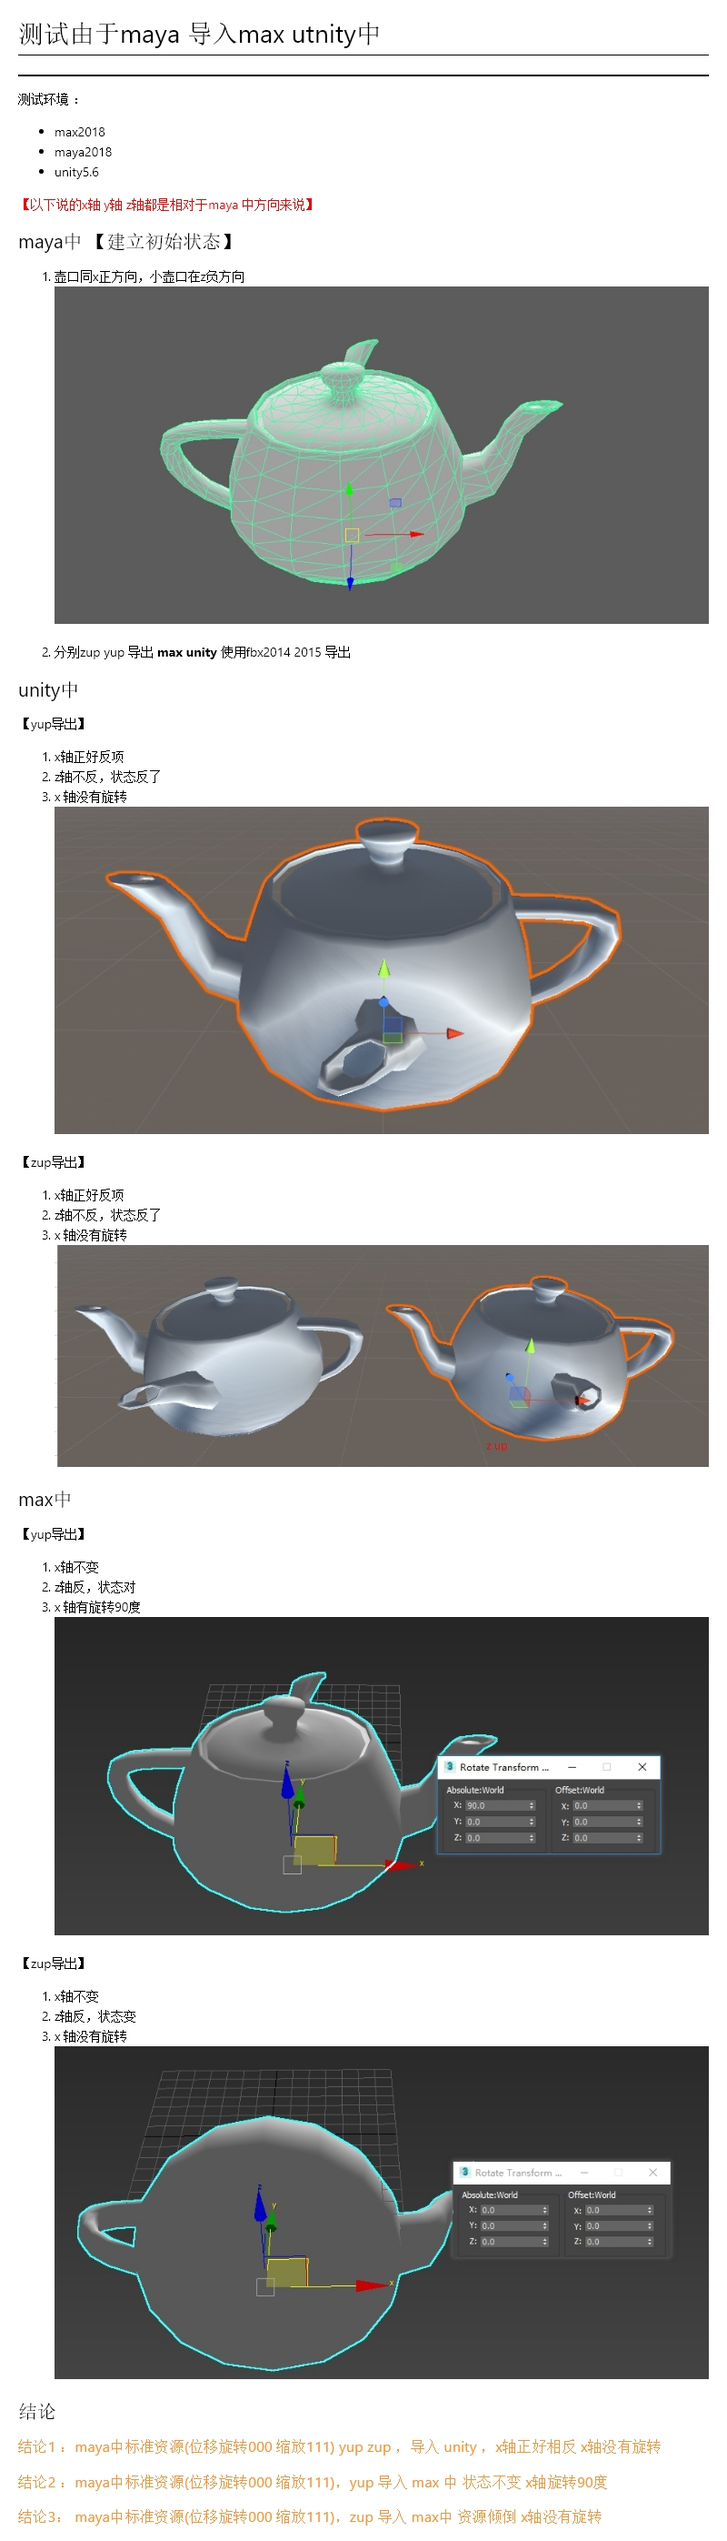
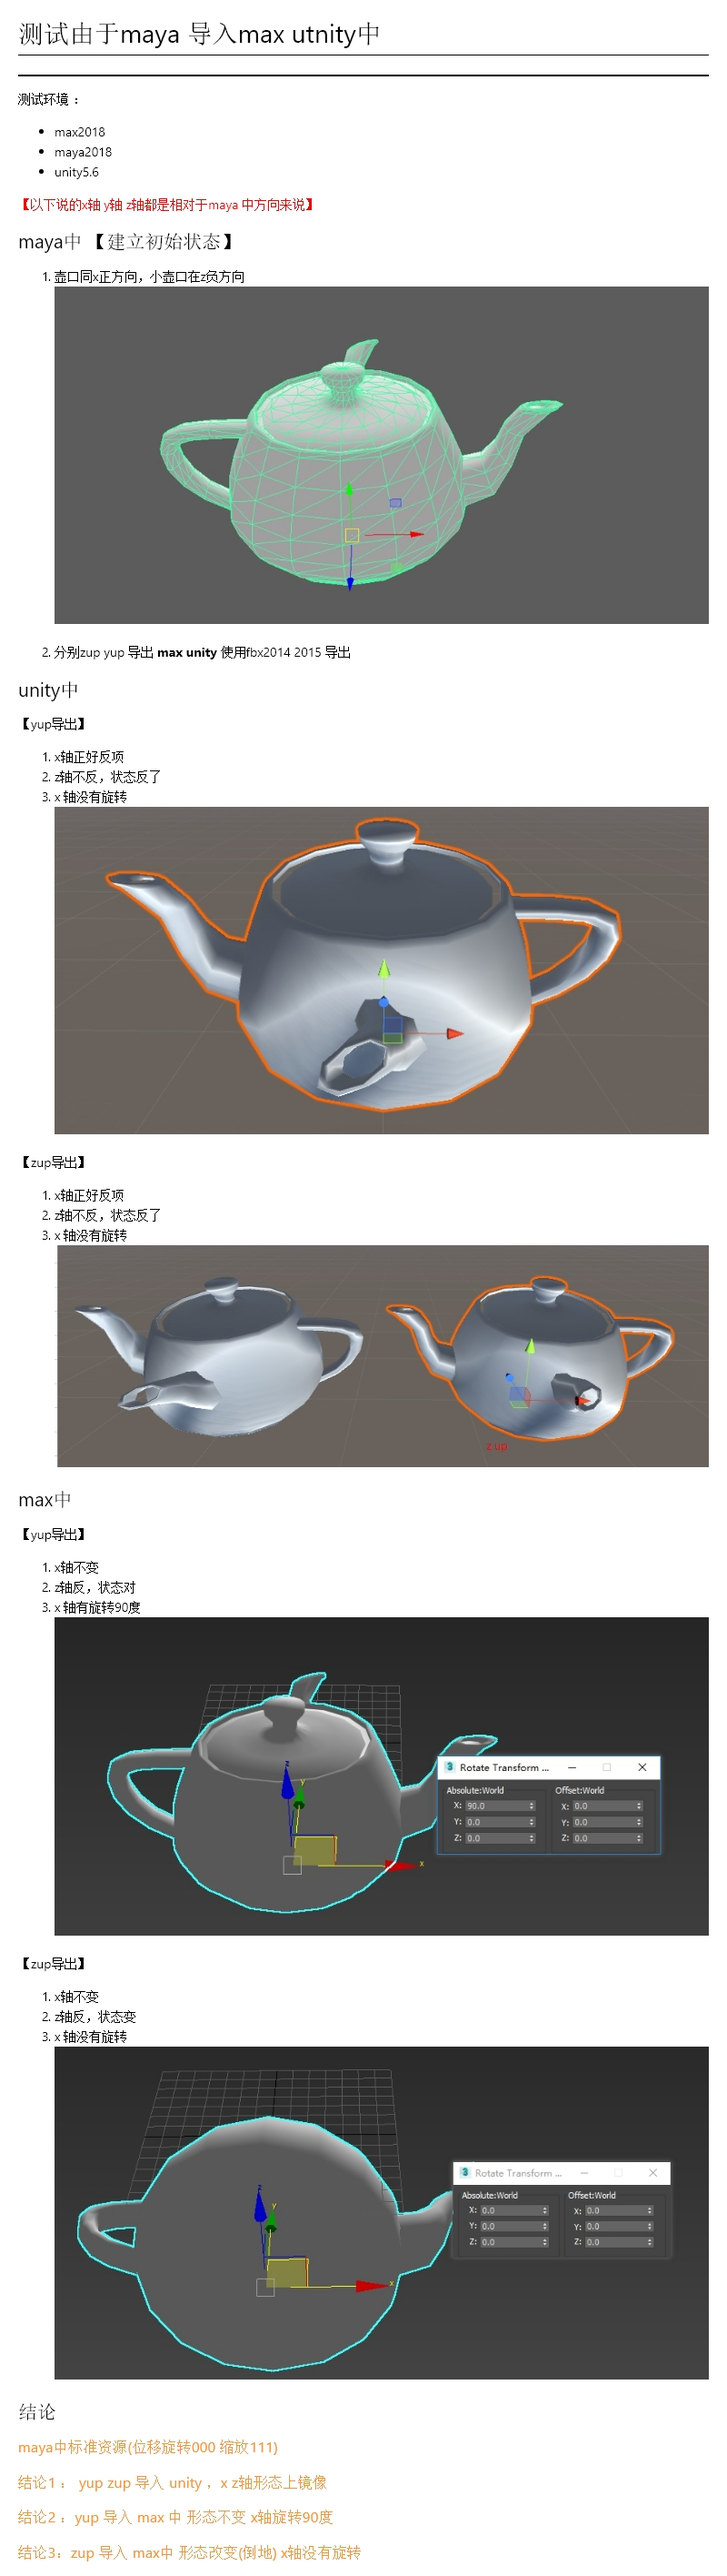
嗲带

diff --git a/max导出unity测试yzup/yzup/res/maya导入unity max中.md b/max导出unity测试yzup/yzup/res/maya导入unity max中.md
@@ -46,6 +46,8 @@
 
 
 ## 结论
-### <font color = #ff99333> 结论1 ：maya中标准资源(位移旋转000 缩放111) yup zup ，导入 unity ，x轴正好相反 x轴没有旋转 </font> 
-### <font color = #ff99333> 结论2 ：maya中标准资源(位移旋转000 缩放111)，yup 导入 max 中 状态不变 x轴旋转90度 </font> 
-### <font color = #ff99333> 结论3： maya中标准资源(位移旋转000 缩放111)，zup 导入 max中 资源倾倒 x轴没有旋转 </font> 
+### <font color = #ff99333> maya中标准资源(位移旋转000 缩放111) </font> 
+
+### <font color = #ff99333> 结论1 ： yup zup 导入 unity ，x z轴形态上镜像 </font> 
+### <font color = #ff99333> 结论2 ：yup 导入 max 中 形态不变 x轴旋转90度 </font> 
+### <font color = #ff99333> 结论3：zup 导入 max中 形态改变(倒地) x轴没有旋转 </font> 

diff --git a/max导出unity测试yzup/yzup/res/maxmaya_test.md b/max导出unity测试yzup/yzup/res/maxmaya_test.md
@@ -46,6 +46,6 @@
 
 
 ## 结论
-### <font color = #ff99333> 结论1 ：max中标准资源(位移旋转000 缩放111)，导入 unity  导入maya中，x轴都有旋转 -90度 </font> 
-### <font color = #ff99333> 结论2 ：max中标准资源(位移旋转000 缩放111)，导入 unity 中 x 轴180 度镜像 y轴180镜像 </font> 
-### <font color = #ff99333> 结论3： max中标准资源(位移旋转000 缩放111)，导入 maya中 型没有变，坐标系旋转90度，x = -90</font> 
+###   <font color = #ff99333> max中标准资源(位移旋转000 缩放111) </font> 
+###  <font color = #ff99333> 结论1 ：yup zup导入 unity ，x轴都有旋转 -90度 , x y 轴向上形态镜像 </font> 
+###  <font color = #ff99333> 结论2： 导入 maya中 形态没变，x轴旋转-90</font> 
